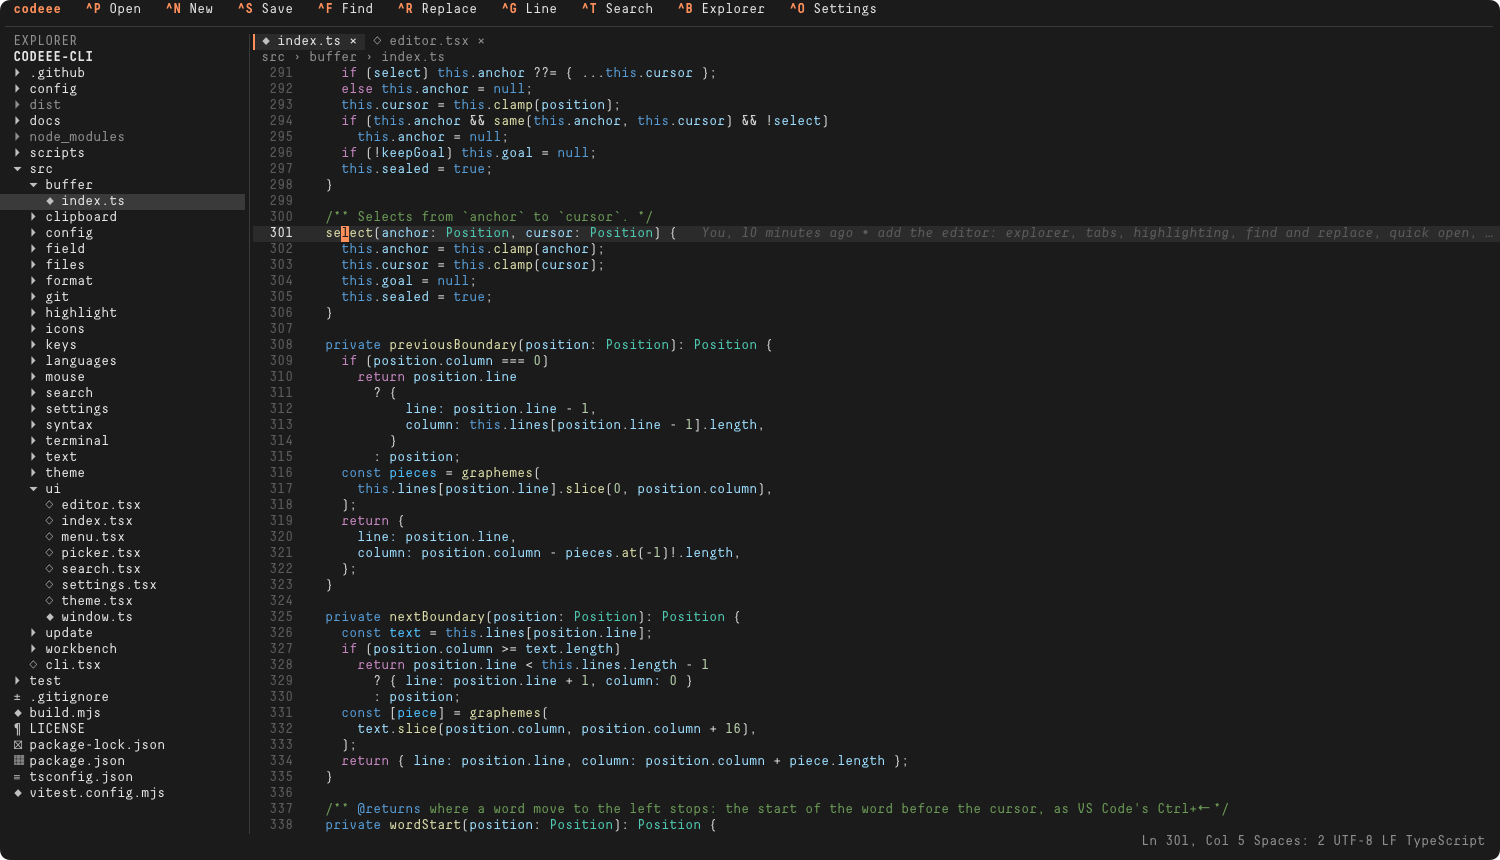
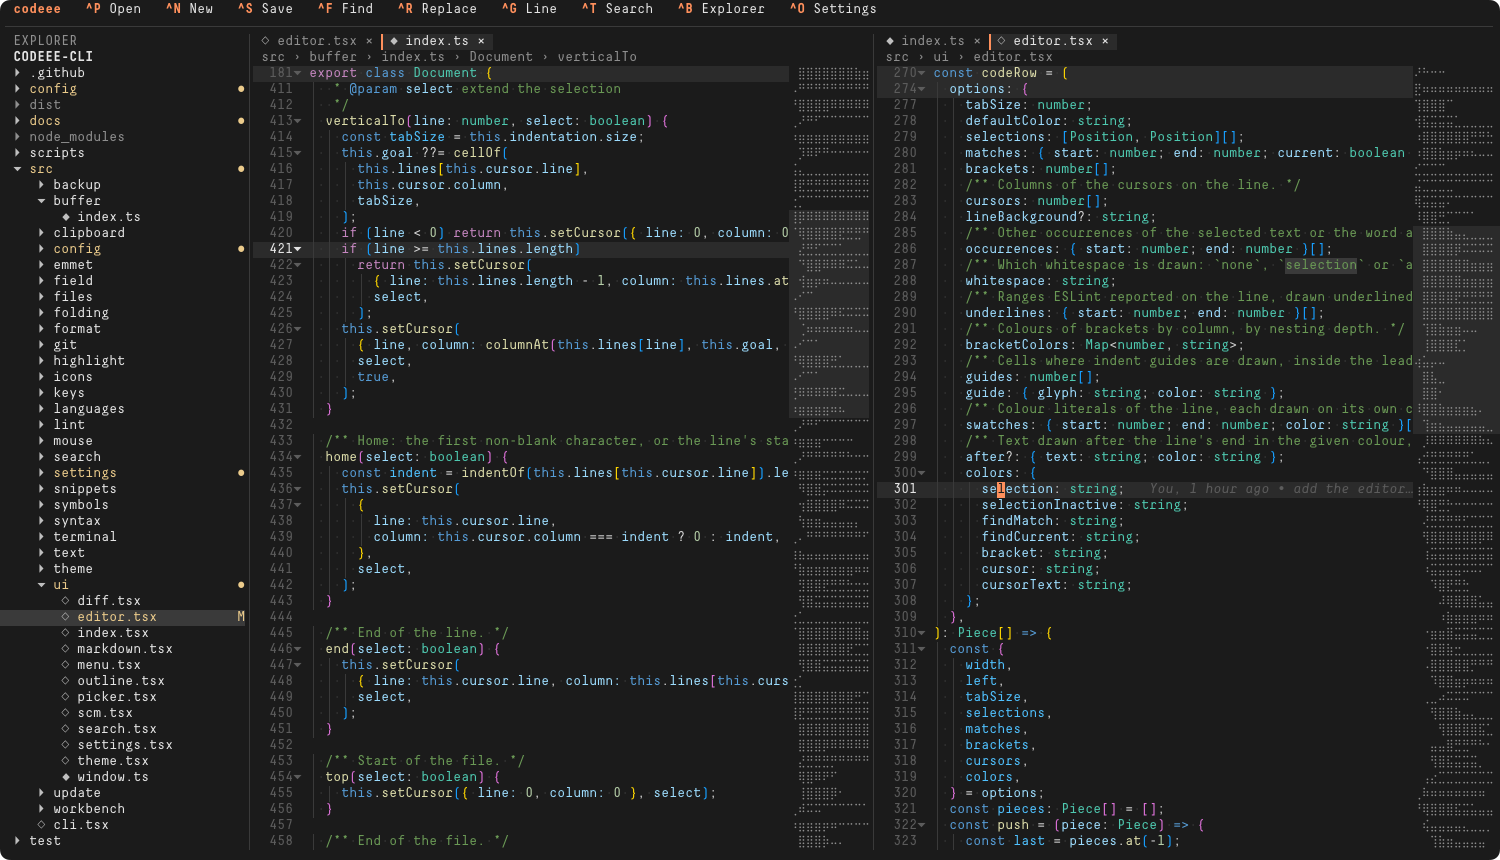
move fold arrows beside the line numbers, bind source control and outline, refresh screenshots and readme

diff --git a/src/ui/editor.tsx b/src/ui/editor.tsx
@@ -637,7 +637,7 @@ export const CodeView = memo(
       const gutterText = !entry.first
         ? " ".repeat(gutter)
         : settings.lineNumbers
-          ? `${foldMark}${number.padStart(gutter - workbench.theme.spacing.gutterPadding - 1)}${" ".repeat(workbench.theme.spacing.gutterPadding)}`
+          ? ` ${number.padStart(gutter - workbench.theme.spacing.gutterPadding - 1)}${foldMark}${" ".repeat(workbench.theme.spacing.gutterPadding - 1)}`
           : " ";
       const matches = find
         ? find.matches.flatMap((match, index) =>
@@ -852,7 +852,10 @@ export const CodeView = memo(
         height={height}
         flexDirection="column"
         onPress={(event) => {
-          if (event.localX === 0 && event.localY >= sticky.length) {
+          if (
+            event.localX === gutter - workbench.theme.spacing.gutterPadding &&
+            event.localY >= sticky.length
+          ) {
             const target = visible[first + event.localY];
             if (
               target !== undefined &&

diff --git a/src/settings/index.ts b/src/settings/index.ts
@@ -174,6 +174,18 @@ const KEYS: [string, string, string, string][] = [
     "Undo the last Expand Selection step.",
   ],
   [
+    "scm",
+    "View",
+    "Show Source Control",
+    "Show the changed files, stage them and commit.",
+  ],
+  [
+    "outline",
+    "View",
+    "Show Outline",
+    "Show the symbols of the file in the side bar.",
+  ],
+  [
     "reopenClosed",
     "View",
     "Reopen Closed Editor",

diff --git a/src/config/index.ts b/src/config/index.ts
@@ -54,6 +54,8 @@ export type KeyBindings = Record<
   | "comment"
   | "format"
   | "goToSymbol"
+  | "scm"
+  | "outline"
   | "addCursorAbove"
   | "addCursorBelow"
   | "expandSelection"

diff --git a/README.md b/README.md
@@ -9,20 +9,22 @@
 [![Node](https://img.shields.io/badge/node-%3E%3D22.15-88bd66)](https://nodejs.org)
 [![Buy me a coffee](https://img.shields.io/badge/Buy%20me%20a%20coffee-ffdd04?logo=buymeacoffee&logoColor=000)](https://buymeacoffee.com/illinifellow)
 
-![codeee in the dark golden-brown theme: the explorer with the source folders open, two tabs, TypeScript highlighted in the VS Code theme and the blame of the cursor line](docs/dark.png)
+![codeee in the dark golden-brown theme: the explorer, two editor groups side by side with sticky scroll, fold arrows, indent guides, the minimap and the blame of the cursor line](docs/dark.png)
 
 codeee is the sibling of [gittt](https://github.com/illinifellow/gittt-cli): gittt is a Sourcetree for the terminal, codeee is a VS Code for it. It is an editor and nothing more: no extensions, no built-in terminal, no debugger. What VS Code users reach for every minute is built in.
 
-![The same editor in the light milk-and-honey theme: the Search view with 53 results in 5 files beside the code](docs/light.png)
+![The same editor in the light milk-and-honey theme: the Search view with its results beside the code](docs/light.png)
 
 ## Features
 
 - **Explorer:** the folder's tree with the icons of your VS Code icon theme, git states (modified, untracked, added, deleted, conflicted, ignored) and unsaved files; new file, new folder, rename, delete to the Trash, copy path.
 - **Tabs and Quick Open:** files open in tabs and come back next time with their cursor where you left it; `^P` finds any file by fuzzy name, `:` goes to a line, `>` runs any command.
 - **Highlighting:** every language shiki bundles (over 240), found the way VS Code finds them (its installed language extensions, file names, shebangs), coloured by your VS Code theme with your `editor.tokenColorCustomizations`.
-- **Editor groups:** split the editor (View: Split Editor), drag tabs between groups or to the right edge for a new one; tabs wrap onto more rows when they do not fit.
+- **Editor groups:** split the editor right or down, drag tabs between groups or to the right edge for a new one, toggle the layout; tabs wrap onto more rows when they do not fit. Zen Mode hides everything but the code.
 - **Hot exit:** unsaved files are backed up while you work and come back the next time, so quitting never asks and a crash loses nothing.
 - **Explorer as in VS Code:** compact folders, a single click opens a preview tab, drag files between folders, Enter renames, Backspace deletes to the Trash.
+- **IntelliSense:** suggestions as you type from the words of your open files and from snippets; ↑↓ to choose, Tab or Enter to insert.
+- **Source Control:** staged and unstaged changes, + and − to stage, a message box and Commit, a click opens the changes (`⌥G`).
 - **Multiple cursors:** `^D` adds the next occurrence of the selection, `⌥`-click adds a cursor; typing, Backspace, Delete, arrows and Home/End act on every one. Occurrences of the word at the cursor are highlighted.
 - **Editing as in VS Code:** auto-indent, auto-closing brackets and quotes, word moves and deletes, Tab and Shift+Tab on selections, line comments, move, copy and delete lines, whole-line copy and paste, undo and redo grouped by typing.
 - **Find and replace:** in the file with case, whole-word and regular-expression options; across the folder in the Search view with files to include and exclude, and Replace All.
@@ -39,7 +41,9 @@ codeee is the sibling of [gittt](https://github.com/illinifellow/gittt-cli): git
 - **Navigation:** Go Back and Go Forward (`^⌥←` `^⌥→`), `^`-click goes to a definition, a click on the breadcrumbs lists the file's symbols, the Outline view (View: Show Outline), the Problems list (View: Show Problems).
 - **Git:** Open Changes shows the file's changes against the last commit inline.
 - **Menus as in VS Code:** tabs (Close Others, Close to the Right, Close Saved, Close All, Split Right, Reveal in Finder), the editor (Go to Definition, Rename Symbol, Change All Occurrences, Format Document), the explorer (Find in Folder, Copy, Paste, Reveal in Finder) and search results (Replace, Dismiss, Copy All); a middle click closes a tab.
-- **More editing:** Format Selection, Toggle Block Comment (`⌥⇧A`), Find in Selection (`⌥L`), recently used commands first in `>`, `@modified` on the settings page.
+- **Selections:** Expand and Shrink Selection (`^⇧→` `^⇧←`), cursors above and below (`^⌥↑` `^⌥↓`), box selection with `⇧⌥`-drag.
+- **Files:** Save All (`⌥S`), Save As, Revert File, Compare with Saved, Copy Path, end of line and indentation conversion.
+- **More editing:** Format Selection, Toggle Block Comment (`⌥⇧A`), Find in Selection (`⌥L`), recently used commands first in `>`, `@modified` on the settings page, key bindings recorded by pressing them.
 - **Small things VS Code users expect:** Reopen Closed Editor, Change Language Mode and Change Indentation commands, type a name in the explorer to jump to it, whitespace shown inside selections.
 - **Option as Alt** even when the terminal sends Option as text, so every `⌥` shortcut works in a stock iTerm2 or Terminal.
 - **Settings page** like VS Code's: search, table of contents, every option with its description and control, modified marks, reset, and the JSON file one click away.
